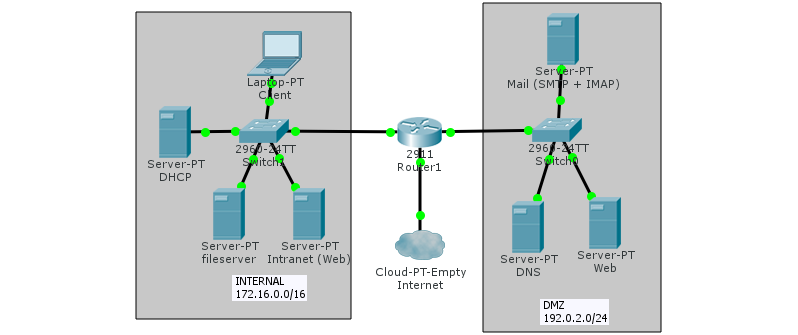
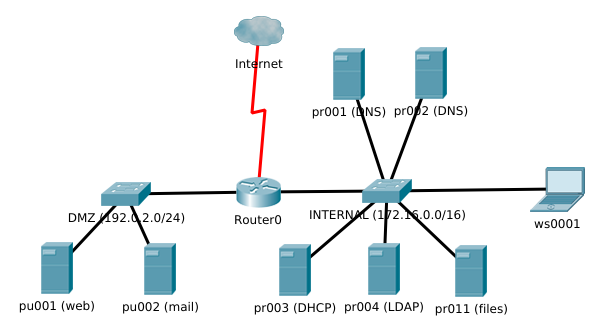
Update assignment for academic year 2019-2020
- Move Authoritative DNS servers to the internal network
- Reassign IP address space in the internal network
- Add some clarifications to the assignments so students will (hopefully) avoid common pitfalls

diff --git a/assignment/04-integration.md b/assignment/04-integration.md
@@ -17,25 +17,11 @@
 
 In this assignment, the goal is to complete the network we've been building with a DHCP server for workstations and a router. When a workstation is attached to the network, it should receive correct network settings from the DHCP server (IP address, default gateway, DNS) and be able to use the services on the local network (specifically the webserver and fileserver) and to access the Internet through the router.
 
-### DHCP
-
-Known hosts should receive a reserved IP address based on their MAC address. Hosts that do not have their MAC address registered should get a dynamic IP address. Configure a lease time of 12 hours. The IP range is subdivided as follows:
-
-| Start          | End            | Host type                                |
-| :---           | :---           | :---                                     |
-| 172.16.0.1     | -              | VirtualBox host system                   |
-| 172.16.0.2     | 172.16.127.254 | Hosts with static IP (servers)           |
-| 172.16.128.1   | 172.16.191.254 | Hosts with reserved IP, based on MAC (*) |
-| 172.16.192.1   | 172.16.255.253 | Hosts with dynamic IP (*)                |
-| 172.16.255.254 | -              | Gateway                                  |
-
-(*) Only these IP addresses are assigned by the DHCP server!
-
-### Router
+### Router and DNS resolver
 
 The Vagrant configuration for the router is already provided (in `Vagrantfile`), and is considerably different from the others. You should install a plugin that adds support for VyOS to Vagrant with `vagrant plugin install vagrant-vyos`. `vagrant status` should show the router, and you should be able to boot it.
 
-The router runs a specialized Linux distribution, [VyOS](http://vyos.net/). VyOS is partly inspired by Cisco's IOS, so the workflow and commands may be a bit familiar. First, make yourself acquainted with the configuration commands.
+The router runs a specialized Linux distribution, [VyOS](http://vyos.net/). VyOS is partly inspired by Cisco's IOS, so the workflow and commands may be a bit familiar. First, [make yourself acquainted](https://github.com/bertvv/cheat-sheets/blob/master/docs/VyOS.md) with the configuration commands.
 
 An overview of the network interfaces:
 
@@ -46,12 +32,30 @@ An overview of the network interfaces:
 | `eth2`    | Host-only    | 172.16.255.254/16   | internal |
 
 - The configuration of the VyOS router is not done through Ansible, but with a shell script, `scripts/router-config.sh`. Some scaffolding code is already present in the script, with comments that explain which settings to be added.
-- Configure the network interfaces, ensure `eth0` is used as WAN link. Assume that the network configuration settings (IP address, gateway, DNS server) on this interface were assigned by the Internet Service Provider of Avalon. Network traffic from the local network to the Internet should be forwarded to the correct IP address.
-- This router is also configured as a *forwarding* DNS server. This means that it does not have its own zone definitions, but it forwards all requests to appropriate name servers:
+- Configure the network interfaces, ensure `eth0` is used as WAN link. The network configuration settings (IP address, gateway, DNS server) on this interface were assigned by the VirtualBox NAT interface. Assume these addresses were provided by Avalon's Internet Service Provider. Network traffic from the local network to the Internet should be forwarded to the correct IP address (the ISP's gateway).
+- This router is also configured as a **forwarding DNS server** to be used by your workstations. This means that it does not have its own zone definitions, but it forwards all requests to appropriate name servers:
     - DNS requests for the `avalon.lan` domain are forwarded to the authoritative name server you set up in a previous assignment (remark that VyOS only allows to set a single DNS server per domain for forwarding);
-    - All other DNS requests are forwarded to the appropriate IP address (the DNS server assigned by the "ISP"). *Don't use Google's DNS servers or other public DNS resolvers!*
-- The internal network has a private IP range that should not be routed to the external network. Set up Network Address Translation for all traffic originating from the internal network.
+    - All other DNS requests are forwarded to the appropriate IP address (the DNS server assigned by the "ISP"). **Do not use Google's DNS servers or other public DNS resolvers!**
+- The internal network has a private IP range that should not be routed to the external network. Set up Network Address Translation for all traffic originating from the internal network and directed either to the WAN/Internet or the DMZ.
 - For synchronizing the system clock, most computer systems use NTP (Network Time Protocol). Delete the default NTP servers, and use the pool zone for your location (e.g. [be.pool.ntp.org](http://www.pool.ntp.org/zone/be) for Belgium). Also, set the time zone.
+
+### DHCP
+
+Known hosts (workstations) should receive a reserved IP address based on their MAC address and should get a lease time of 12 hours. Hosts that do not have their MAC address registered (guests) should get a dynamically assigned IP address, with a lease time of 4 hours.
+
+The address space of the internal network is used as follows:
+
+| Lowest address | Highest address | Host type                    |
+| :---           | :---            | :---                         |
+| 172.16.0.1     | --              | VirtualBox host system       |
+| 172.16.0.2     | 172.16.127.254  | Guests (dynamic IP)          |
+| 172.16.128.1   | 172.16.191.254  | Worksations (reserved IP)    |
+| 172.16.192.1   | 172.16.255.254  | Servers, gateway (static IP) |
+
+Some remarks:
+
+- Only hosts with a dynamic or reserved IP address are assigned by the DHCP server!
+- Beware of the DNS settings your DHCP server provides to workstations and guest pc's! Guest pc's should be able to access both internal services as the Internet!
 
 ## Acceptance test
 
@@ -65,4 +69,4 @@ Some suggestions:
 - Ensure both interfaces will get an IP address assigned by DHCP
 - Check the IP addresses: one should be the reserved IP address, the other should come from the pool of dynamic addresses.
 
-Finally, this VM should be able to view the "company website" by surfing to <http://www.avalon.lan> in a web browser and be able to access the fileserver both through SMB and FTP.
+Finally, this VM should be able to view the "company website" by surfing to <http://www.avalon.lan/> in a web browser and be able to access the fileserver both through SMB (e.g. `\\FILES\public\` or `smb://files/public`) and FTP (<ftp://files.avalon.lan/>).

diff --git a/README.md b/README.md
@@ -11,40 +11,43 @@ The scaffolding code is based on [ansible-skeleton](https://github.com/bertvv/an
 
 ## Overview
 
-You're hired by Avalon Services, a small startup, to set up their IT infrastructure on-site. Your task is to build the network domain (domain name `avalon.lan`), which is subdivided into two IP ranges:
+You're hired by Avalon Services, a small but growing startup, to set up their IT infrastructure on-site. Your task is to build the network domain (domain name `avalon.lan`), which is subdivided into two IP ranges:
 
 - 192.0.2.0/24 for public services that should be accessible from the Internet (the so-called "DMZ" or "Demilitarized Zone")
-- 172.16.0.0/16 for the internal network. Within this range, 172.16.100.0-172.16.199.255 is reserved for work stations (desktops, laptops, mobile devices).
+- 172.16.0.0/16 for the internal network.
 
-An overview of all host (that are not all part of the assignment) in the network can be found below:
+An overview of notable hosts in the network (remark that you will not set all of these up in the assignment!) can be found below:
 
-| Host name   | Alias     | IP             | Function                 |
-| :---        | :---      | :---           | :---                     |
-| Host system | -         | 192.0.2.1      | Your own computer/laptop |
-|             |           | 172.16.0.1     |                          |
-| router      | gw        | 192.0.2.254    | Router/DNS forwarder     |
-|             |           | 172.16.255.254 |                          |
-| pu001       | ns1       | 192.0.2.10     | Primary DNS              |
-| pu002       | ns2       | 192.0.2.11     | Secondary DNS            |
-| pu003       | mail      | 192.0.2.20     | Mail server              |
-| pu004       | www       | 192.0.2.50     | Webserver (LAMP)         |
-| pr001       | dhcp      | 172.16.0.2     | DHCP server              |
-| pr002       | directory | 172.16.0.3     | LDAP server              |
-| pr010       | inside    | 172.16.0.10    | Intranet (LAMP)          |
-| pr011       | files     | 172.16.0.11    | Fileserver (Samba, FTP)  |
-| ws0001      |           | -              | Work station             |
+| Host name     | Alias     | IP             | Function                 |
+| :---          | :---      | :---           | :---                     |
+| (host system) |           | 192.0.2.1      | Your physical pc         |
+|               |           | 172.16.0.1     |                          |
+| router        |           | 192.0.2.254    | Router/DNS forwarder     |
+|               | gw        | 172.16.255.254 |                          |
+| pu001         | www       | 192.0.2.10     | Webserver                |
+| pu002         | mail      | 192.0.2.20     | Mail server              |
+| pr001         | ns1       | 172.16.192.1   | Primary DNS              |
+| pr002         | ns2       | 172.16.192.2   | Secondary DNS            |
+| pr003         | dhcp      | 172.16.192.3   | DHCP server              |
+| pr004         | directory | 172.16.192.4   | LDAP server              |
+| pr010         | inside    | 172.16.192.10  | Intranet (LAMP)          |
+| pr011         | files     | 172.16.192.11  | Fileserver (Samba, FTP)  |
+| ws0001        |           | (DHCP)         | Workstation              |
 
 ![Diagram of the network to be set up](assignment/avalon-network.png)
-
 
 ## Reporting and documentation
 
 For each partial assignment, write a lab report. **Write documentation **while** you are working on your assignment, **not after** the facts. Your report contains the following elements:
 
-- A test plan: a list of steps to perform in order to verify that the requirements are met
-- A detailed description of the procedure/process you followed to meet these requirements. It is not necessary to repeat code that is elsewhere in this repository. However, all thought processes and considerations that are not in the code, but that have led you to go into a particular direction, should be clearly documented.
-- A test report: transcript of a test session according to your test plan that proves that the requirements are met.
-- A list of external resources you used: manuals, blog posts, books, etc.
+- A **test plan**: a list of steps to perform in order to verify that the requirements are met
+    - a test plan may consist only of the command to run the automated acceptance tests. Sometimes, however, you have to check some things manually.
+- A detailed description of the **procedure**/process you followed to meet these requirements.
+    - It is not necessary to repeat code that is elsewhere in this repository. However, all thought processes and considerations that are not in the code, but that have led you to go into a particular direction, should be clearly documented.
+- A **test report**: transcript of a test session according to your test plan that proves that the requirements are met.
+    - A test report may contain screenshots. Github Markdown supports including images that reside in your Github repository
+    - You can also link to a screencast where you demonstrate the test procedure (e.g. unlisted Youtube video)
+- A list of **external resources** you used: manuals, blog posts, books, etc.
 
 Use Github Issues and, optionally, Github Projects to keep a to-do list and visualise work in process. This is a valuable communication tool in the progress reports to your teacher.
 
@@ -55,4 +58,3 @@ This assignment and the scaffolding code was written by [Bert Van Vreckem](https
 The assignment and all documentation is shared under the [Creative Commons Attribution 4.0 International](http://creativecommons.org/licenses/by/4.0/) license. All code (both scaffolding and testing code) is subject to the MIT license. See [LICENSE.md](LICENSE.md) for details.
 
 Questions and remarks about this assignment are welcome (use the Issues), as well as improvements, fixes, etc. (you can submit a Pull Request). However, technical support on getting the setup working, or on solving the assignment is reserved to students following the course for which it was developed.
-

diff --git a/assignment/02-dns.md b/assignment/02-dns.md
@@ -3,14 +3,14 @@
 ## Learning goals
 
 - Being able to set up and test a DNS-server with BIND
-   - Understanding BIND's configuration files, particularly zone files, and being able to find and fix errors
-   - Knowing how to query a DNS server with `dig`
+    - Understanding BIND's configuration files, particularly zone files, and being able to find and fix errors
+    - Knowing how to query a DNS server with `dig`
 
 ## Assignment
 
 DNS is essential for any network domain, and quite a few ([according to some, *all*](http://www.krisbuytaert.be/blog/)) problems in a network can be traced back to errors in DNS. There are several implementations of DNS servers, but the most used by far is [ISC BIND](https://www.isc.org/downloads/bind/).
 
-The goal of this assignment is to set up an authoritative DNS server for our domain `avalon.lan`.
+The goal of this assignment is to set up an **authoritative-only DNS server** for our domain `avalon.lan`.
 
 - An overview of all hosts in the domain can be found in the README of this repository. Your virtualization host will not get a host name entry in the DNS.
 - All other hosts should get a *forward* (name -> IP) and *reverse* (IP -> name) lookup record. The specified aliases should also be recognized and yield the correct host and IP address.
@@ -22,14 +22,17 @@ The setup is completely automated with Ansible. Using existing roles is permitte
 In `vagrant-hosts.yml`, add for the primary DNS server:
 
 ```Yaml
-- name: pu001
-  ip: 192.0.2.10
+- name: pr001
+  ip: 172.16.192.1
+  netmask: 255.255.0.0
 ```
 
-and an appropriate entry for the secondary server. In the master playbook, you should also add entries for both new servers and assign them the appropriate roles.
+**Beware!** In `vagrant-hosts.yml`, unless you explicitly specify the network mask, /24 is assigned, even if the specified IP address is a class A or B address. All hosts in the internal network should have the correct network mask, or network connectivity will fail.
+
+Also add an appropriate entry for the secondary server. In the master playbook, you should also add entries for both new servers and assign them the appropriate roles.
 
 Check what happens on the server. How does the configuration file look? What's in the zone files? Make sure you understand the syntax and structure of BIND configuration so you are able to troubleshoot this.
 
 ## Acceptance tests
 
-Both servers can be validated with the test scripts. Execute `sudo /vagrant/test/runbats.sh` to run them. Remark that these tests run locally on the VMs. Ensure that the DNS service is also available from your host system!
+Both servers can be validated with the test scripts. Execute `sudo /vagrant/test/runbats.sh` on each host to run them. Remark that these tests run locally on the VMs. Ensure that both DNS services are also available from your host system! Add the necessary steps to do this to your test plan and test report!

diff --git a/assignment/01-lamp.md b/assignment/01-lamp.md
@@ -23,11 +23,11 @@ SELinux should be active ("enforcing"). The firewall should be up and only allow
 
 The MariaDB database is installed by default with an empty root password, anonymous users (i.e. users with an empty string as user name) and a database named `test`. These should *not* be present in the final system. Use strong passwords.
 
-The web server should also support encrypted communication over HTTPS. When installing HTTPS support for Apache, a default server key and certificate are installed (in `/etc/pki/tls/private` and `/etc/pki/tls/certs`, respectively). [Generate a new (self-signed) certificate](https://wiki.centos.org/HowTos/Https) and ensure that it is installed on the webserver, and that Apache is configured to use that, rather than the default. Remark that generating the certificate should not be part of your Ansible playbook. Create the certificate once, manually. Then copy the necessary files to the correct location within the directory containing your Ansible playbook (usually a subdirectory `files/`).
+The web server should also support encrypted communication over HTTPS. When installing HTTPS support for Apache, a default server key and certificate are installed (in `/etc/pki/tls/private` and `/etc/pki/tls/certs`, respectively). [Generate a new (self-signed) certificate](https://wiki.centos.org/HowTos/Https) and ensure that it is installed on the webserver, and that Apache is configured to use that, rather than the default. Remark that generating the certificate should not be part of your Ansible playbook. Create the certificate once, manually. Then copy the necessary files to the correct location within the directory containing your Ansible playbook (usually a subdirectory `files/`). Your Vagrant/Ansible project directory is mounted inside your VM under `/vagrant/`.
 
 ## Testing
 
-In the test script `test/pu004/lamp.bats`, you may want to change the variables in the test script to the values you have used in your configuration script:
+In the test script `test/pu001/lamp.bats`, you may want to change the variables in the test script to the values you have used in your configuration script:
 
 ```bash
 mariadb_root_password=fogMeHud8

diff --git a/assignment/00-server-setup.md b/assignment/00-server-setup.md
@@ -22,7 +22,7 @@ Apply the role `bertvv.rh-base` to the (currently only) server in our setup. Ens
 All machines in the setup can be tested by executing the following command:
 
 ```console
-$ sudo /vagrant/test/runbats.sh
+sudo /vagrant/test/runbats.sh
 ```
 
 The first time you execute this script, it will install [BATS](https://github.com/bats-core/bats-core), a unit testing framework written in Bash. There are test suites for every assigment in order to verify whether the requirements are met.
@@ -43,13 +43,13 @@ Every lab report should contain a test plan. To give an idea of what is meant by
 
 1. On the host system, go to the local working directory of the project repository
 2. Execute `vagrant status`
-    - There should be one VM, `pu004` with status `not created`. If the VM does exist, destroy it first with `vagrant destroy -f pu004`
-3. Execute `vagrant up pu004`
+    - There should be one VM, `pu001` with status `not created`. If the VM does exist, destroy it first with `vagrant destroy -f pu001`
+3. Execute `vagrant up pu001`
     - The command should run without errors (exit status 0)
-4. Log in on the server with `vagrant ssh pu004` and run the acceptance tests. They should succeed
+4. Log in on the server with `vagrant ssh pu001` and run the acceptance tests. They should succeed
 
-    ```
-    [vagrant@pu004 test]$ sudo /vagrant/test/runbats.sh
+    ```console
+    [vagrant@pu001 test]$ sudo /vagrant/test/runbats.sh
     Running test /vagrant/test/common.bats
     ✓ EPEL repository should be available
     ✓ Bash-completion should have been installed
@@ -69,11 +69,10 @@ Every lab report should contain a test plan. To give an idea of what is meant by
 
 5. Log off from the server and ssh to the VM as described below. You should **not** get a password prompt.
 
-    ```
+    ```console
     $ ssh bert@192.0.2.50
-    Welcome to pu004.localdomain.
+    Welcome to pu001.localdomain.
     enp0s3     : 10.0.2.15         fe80::a00:27ff:fe5c:6428/64
     enp0s8     : 192.0.2.50        fe80::a00:27ff:fecd:aeed/64
-    [bert@pu004 ~]$
+    [bert@pu001 ~]$
     ```
- 

diff --git a/assignment/03-fileshare.md b/assignment/03-fileshare.md
@@ -28,7 +28,7 @@ The host name and IP address are specified in the host overview in the README. S
 By reusing existing Ansible roles, a part of the complexity of this assignment is mitigated. However, it is important to be aware of what happens on the server, what the contents of the configuration files are. When you need to troubleshoot a system, this is essential.
 
 - The setup is completely automated using Ansible
-- The included file <avalon-employees.csv> contains a list of all users of the file server. Every user should get an account to access the file server. Every business unit has its own share, and there's also a public one:
+- The included file `avalon-employees.csv` contains a list of all users of the file server. Every user should get an account to access the file server. Every business unit has its own share, and there's also a public one:
     - management
     - technical (software development)
     - sales
@@ -45,7 +45,7 @@ By reusing existing Ansible roles, a part of the complexity of this assignment i
 - Printer sharing is turned off
 - Anonymous browsing on the file server is prohibited, users need an account in order to view the shares
 
-Tip: access management is best done through user groups. Create a user group for each share, and only specify access rights for groups. When you would have to add new users later, it suffices to add them to the group for their business unit to give the correct access rights.
+Tip: access management is best done through **user groups**. Create a user group for each share, and only specify access rights for groups. When you would have to add new users later, it suffices to add them to the group for their business unit to give the correct access rights.
 
 ## Testing
 
